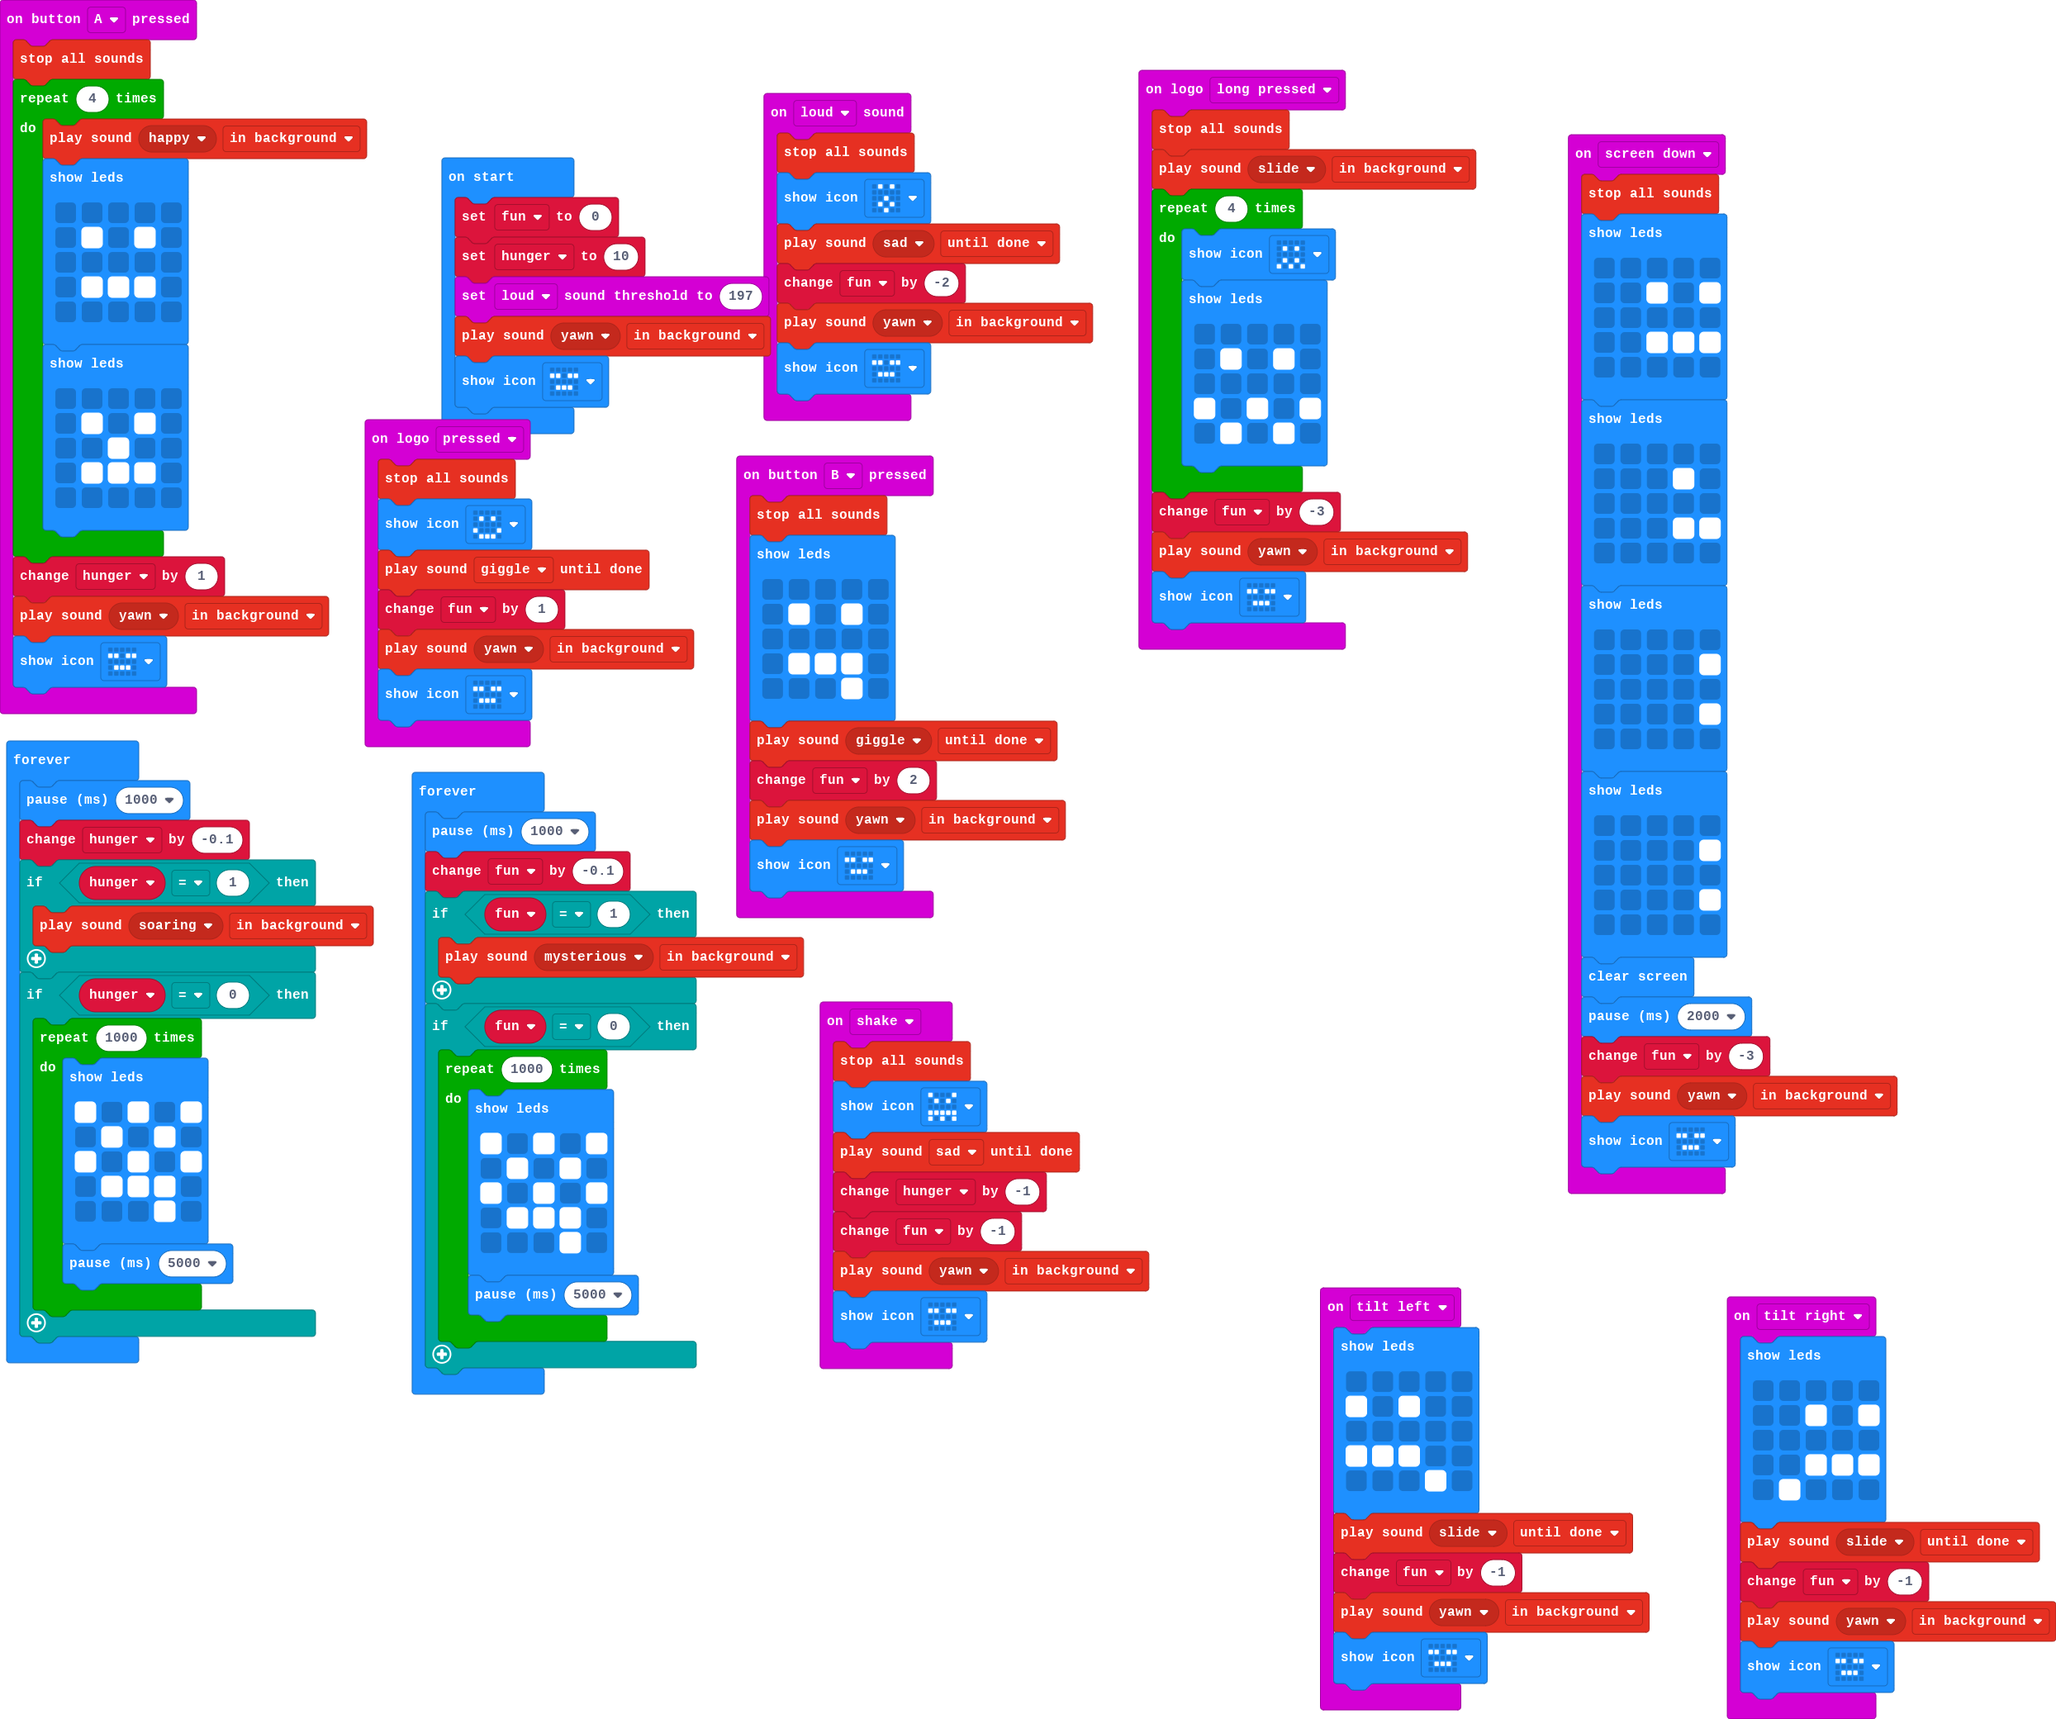
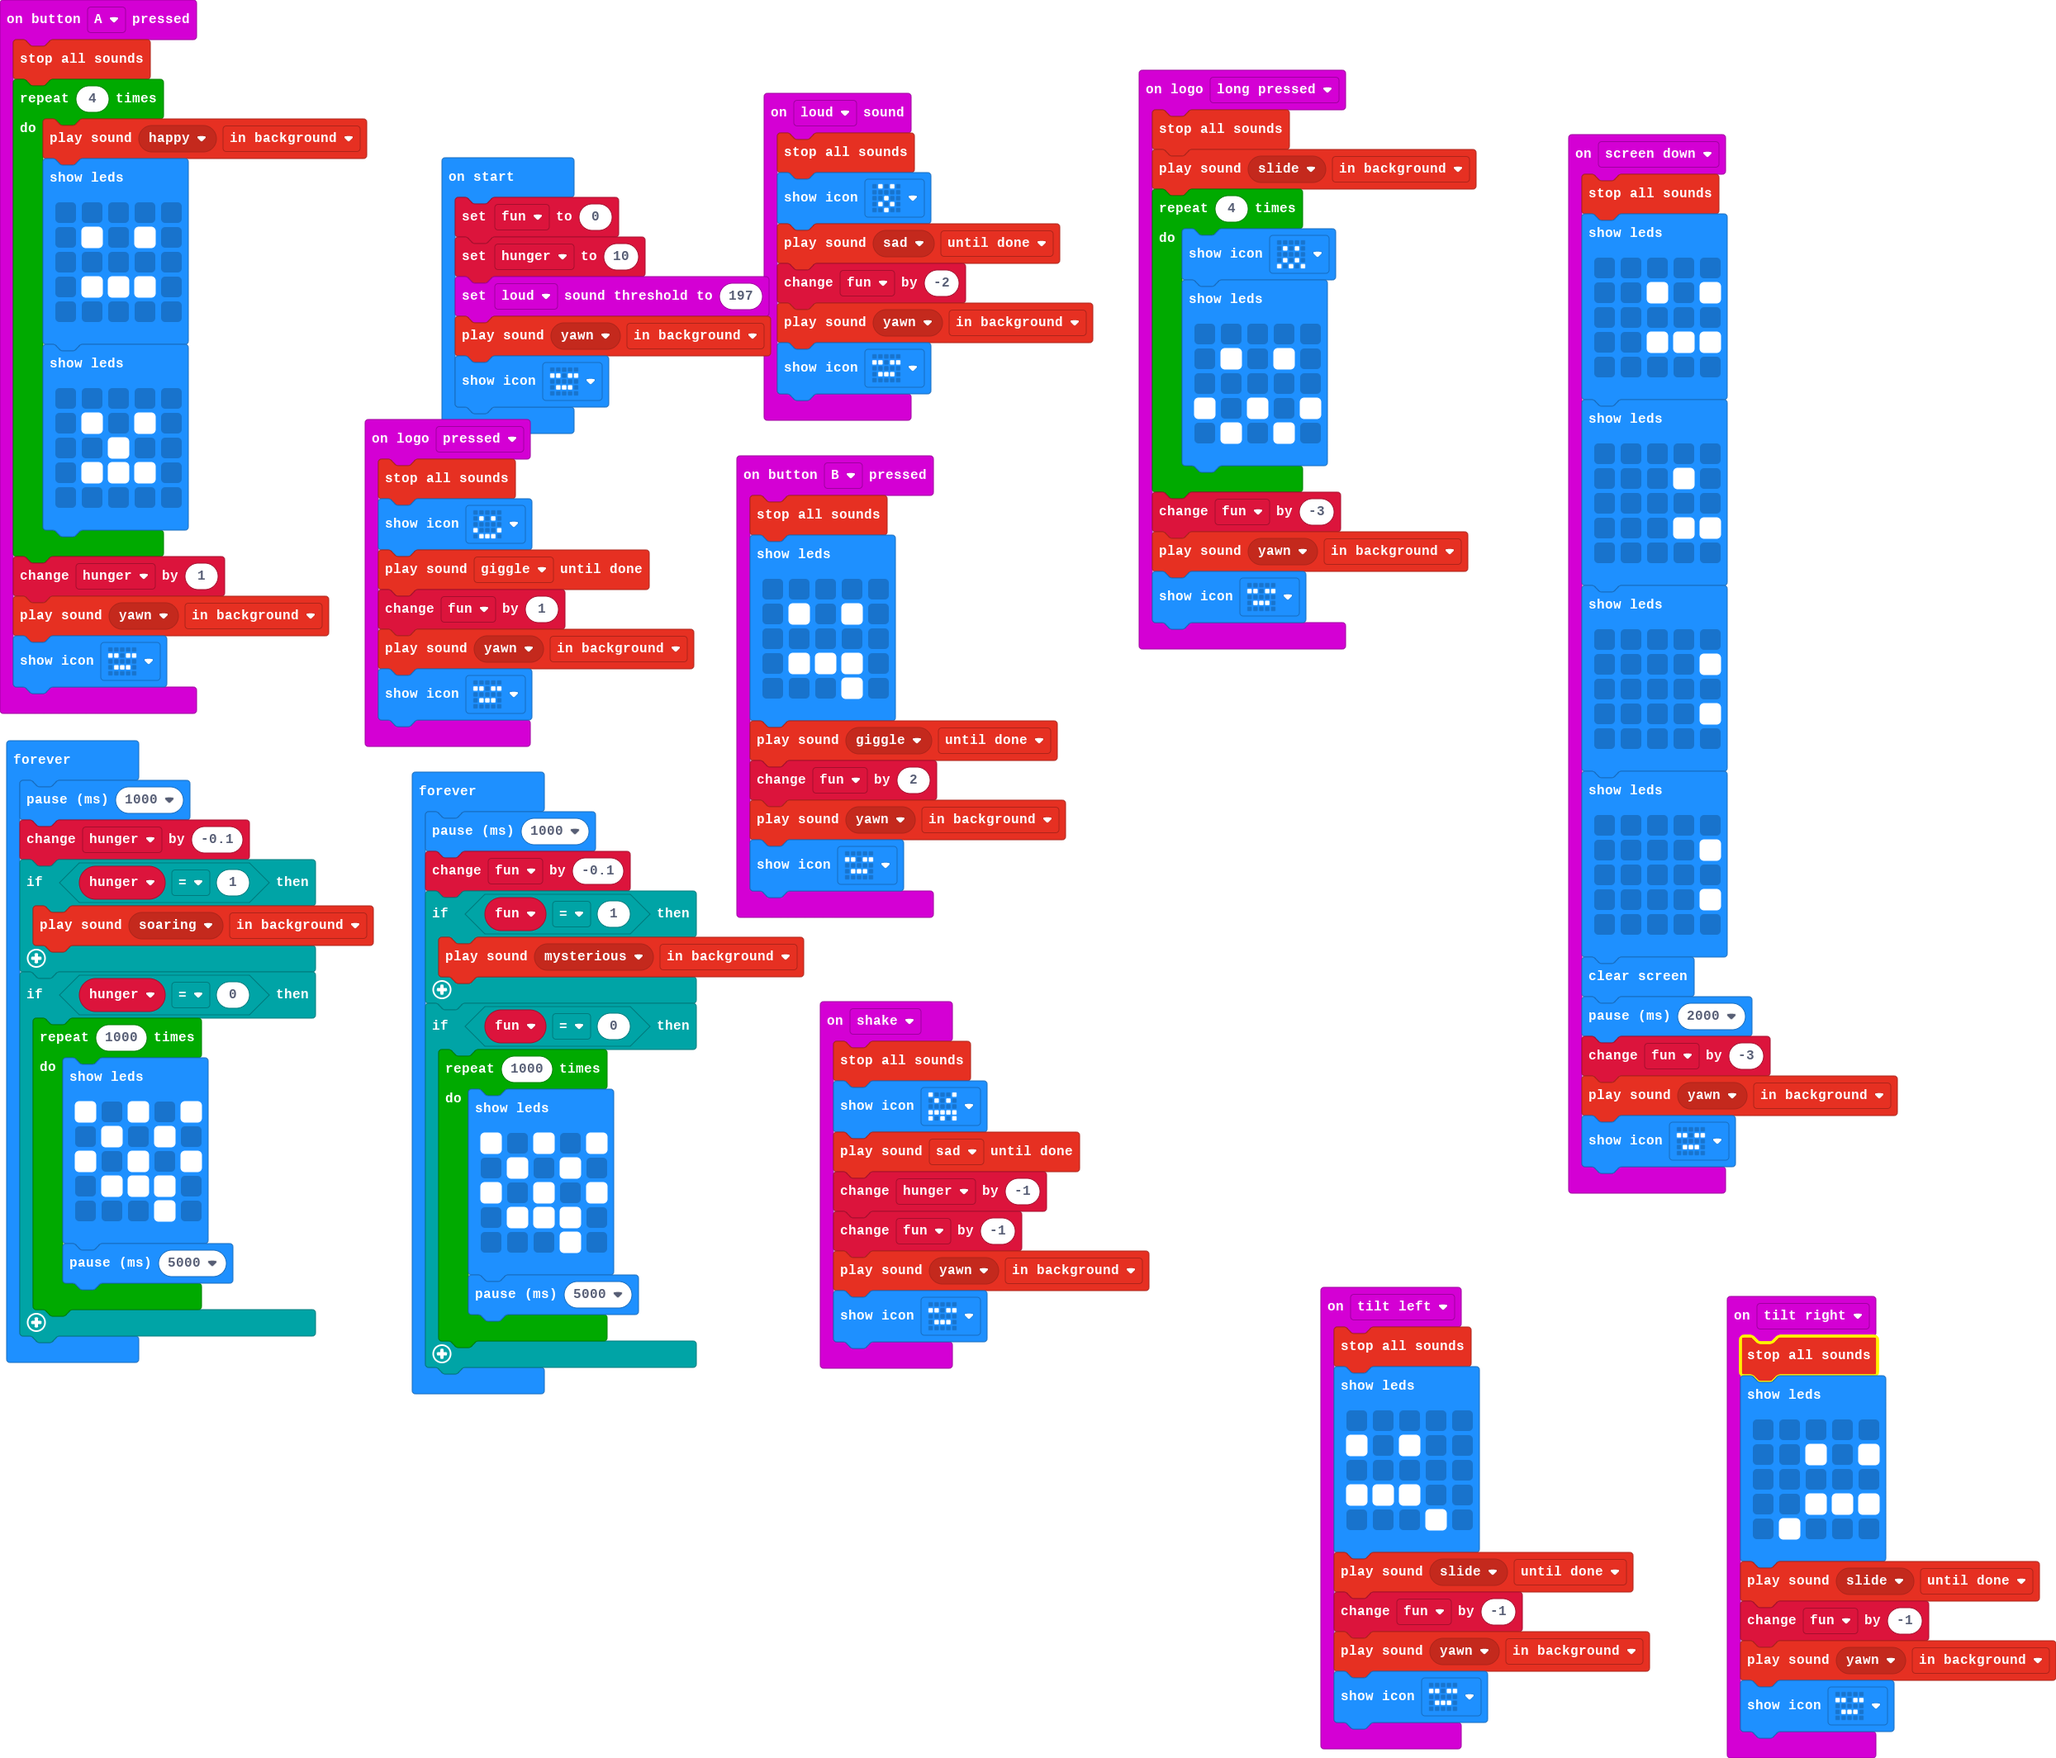
patched tilting sounds

diff --git a/main.ts b/main.ts
@@ -39,6 +39,7 @@ input.onButtonPressed(Button.A, function () {
     basic.showIcon(IconNames.Asleep)
 })
 input.onGesture(Gesture.TiltLeft, function () {
+    music.stopAllSounds()
     basic.showLeds(`
         . . . . .
         # . # . .
@@ -119,6 +120,7 @@ input.onGesture(Gesture.Shake, function () {
     basic.showIcon(IconNames.Asleep)
 })
 input.onGesture(Gesture.TiltRight, function () {
+    music.stopAllSounds()
     basic.showLeds(`
         . . . . .
         . . # . #
